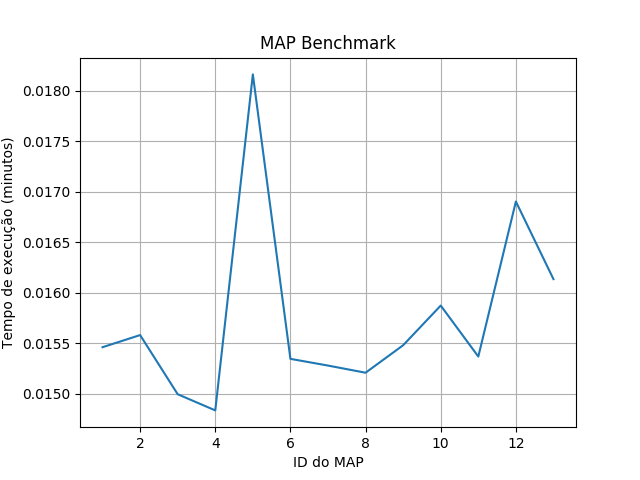
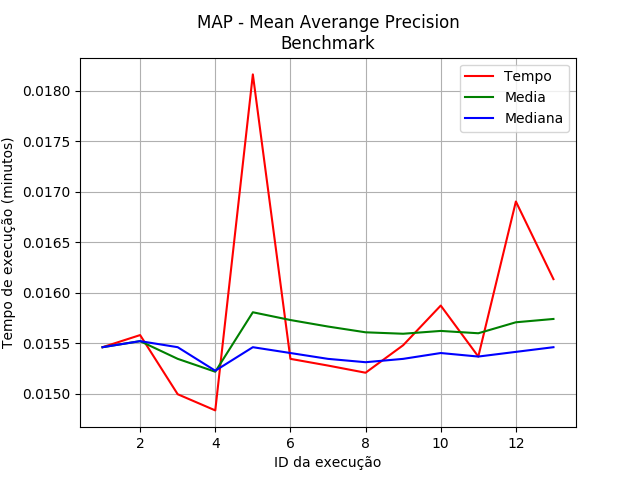
graficos de benchmark do map estavel

diff --git a/apps/evaluators/MAP/analyzer/benchmark.py b/apps/evaluators/MAP/analyzer/benchmark.py
@@ -12,59 +12,72 @@ if not os.path.exists(directory):
     os.makedirs(directory)
 
 def bench_gLine():
-    logger.info("[Start Bench Graph Line]")
+    logger.info("[Start Bench (MAP) Graph Line]")
     allBenchmarks = BenchMAP.objects.all()
-    benchmarkTimes = [((benchmark.finished_at - benchmark.started_at).total_seconds() / 60.0) for benchmark in allBenchmarks]
-    benchmarkMean = np.mean(benchmarkTimes)
-    benchmarkMedian = np.median(benchmarkTimes)
-    logger.debug("MAP Benchmark Time Mean: " + str(benchmarkMean))
-    logger.debug("MAP Benchmark Time Median: " + str(benchmarkMedian))
+    benchmarkTimes = [ ]
+    benchmarkMeanTimes = [ ]
+    benchmarkMedianTimes = [ ]
+    for benchmark in allBenchmarks:
+        benchmarkTimes.append((benchmark.finished_at - benchmark.started_at).total_seconds() / 60.0)
+        benchmarkMeanTimes.append(np.mean(benchmarkTimes))
+        benchmarkMedianTimes.append(np.median(benchmarkTimes))
+    logger.debug("MAP Benchmark -> Mean (minutes): " + str(benchmarkMeanTimes[-1]))
+    logger.debug("MAP Benchmark -> Median (minutes): " + str(benchmarkMedianTimes[-1]))
+    logger.debug("MAP Benchmark -> Run Number: " + str(len(benchmarkTimes)))
     plt.figure()
     plt.grid(True)
-    plt.title('MAP Benchmark')
-    plt.xlabel('ID do MAP')
+    plt.title('MAP - Mean Averange Precision\nBenchmark')
+    plt.xlabel('ID da execução')
     plt.ylabel('Tempo de execução (minutos)')
-    plt.text(-0.1, 1, r'Media: ' + str(float("{0:.2f}".format(benchmarkMean))))
-    plt.text(-0.1, .8, r'Mediana: ' + str(float("{0:.2f}".format(benchmarkMedian))))
-    plt.plot([benchmark.id for benchmark in allBenchmarks],[benchmark for benchmark in benchmarkTimes])
+    plt.plot([benchmark.id for benchmark in allBenchmarks],[benchmark for benchmark in benchmarkTimes],color='red',label='Tempo')
+    plt.plot([benchmark.id for benchmark in allBenchmarks],[benchmark for benchmark in benchmarkMeanTimes],color='green',label='Media')
+    plt.plot([benchmark.id for benchmark in allBenchmarks],[benchmark for benchmark in benchmarkMedianTimes],color='blue',label='Mediana')
+    plt.legend(loc='best')
     plt.savefig(str(directory) + 'value_gLine' + '-[id]-'+ str(allBenchmarks.last().id) + '.png')
-    logger.info("[Finish Bench Graph Line]")
-def bench_gScatter(at=5):
-    logger.info("[Start Bench Graph Scatter]")
+    logger.info("[Finish Bench (MAP) Graph Line]")
+def bench_gScatter():
+    logger.info("[Start Bench (MAP) Graph Scatter]")
     allBenchmarks = BenchMAP.objects.all()
-    benchmarkTimes = [((benchmark.finished_at - benchmark.started_at).total_seconds() / 60.0) for benchmark in allBenchmarks]
-    benchmarkMean = np.mean(benchmarkTimes)
-    benchmarkMedian = np.median(benchmarkTimes)
-    logger.debug("MAP Benchmark Time Mean: " + str(benchmarkMean))
-    logger.debug("MAP Benchmark Time Median: " + str(benchmarkMedian))
+    benchmarkTimes = [ ]
+    benchmarkMeanTimes = [ ]
+    benchmarkMedianTimes = [ ]
+    for benchmark in allBenchmarks:
+        benchmarkTimes.append((benchmark.finished_at - benchmark.started_at).total_seconds() / 60.0)
+        benchmarkMeanTimes.append(np.mean(benchmarkTimes))
+        benchmarkMedianTimes.append(np.median(benchmarkTimes))
+    logger.debug("MAP Benchmark -> Mean (minutes): " + str(benchmarkMeanTimes[-1]))
+    logger.debug("MAP Benchmark -> Median (minutes): " + str(benchmarkMedianTimes[-1]))
+    logger.debug("MAP Benchmark -> Run Number: " + str(len(benchmarkTimes)))
     plt.figure()
     plt.grid(True)
-    plt.title('MAP Benchmark')
+    plt.title('MAP - Mean Averange Precision\nBenchmark')
     plt.ylabel('Tempo de execução (minutos)')
     plt.xlabel('Tempo de execução (minutos)')
-    plt.text(-0.1, 1, r'Media: ' + str(float("{0:.2f}".format(benchmarkMean))))
-    plt.text(-0.1, .8, r'Mediana: ' + str(float("{0:.2f}".format(benchmarkMedian))))
-    plt.scatter(benchmarkTimes, benchmarkTimes)
+    plt.scatter(benchmarkTimes, benchmarkTimes, label='Media: ' + str(float("{0:.4f}".format(benchmarkMeanTimes[-1]))))
+    plt.legend(loc='upper left')
     plt.savefig(str(directory) + 'value_gScatter' + '-[id]-'+ str(allBenchmarks.last().id) + '.png')
-    logger.info("[Finish Bench Graph Scatter]")
-def bench_gBoxPlot(at=5):
-    logger.info("[Start Bench Graph BoxPlot]")
+    logger.info("[Finish Bench (MAP) Graph Scatter]")
+def bench_gBoxPlot():
+    logger.info("[Start Bench (MAP) Graph BoxPlot]")
     allBenchmarks = BenchMAP.objects.all()
     benchmarkTimes = [((benchmark.finished_at - benchmark.started_at).total_seconds() / 60.0) for benchmark in allBenchmarks]
     plt.figure()
-    plt.title('MAP Benchmark')
-    plt.boxplot(benchmarkTimes)
+    plt.title('MAP - Mean Averange Precision\nBenchmark')
+    plt.boxplot(benchmarkTimes, labels='T')
     plt.savefig(str(directory) + 'value_gBoxPlot' + '-[id]-'+ str(allBenchmarks.last().id) + '.png')
-    logger.info("[Finish Bench Graph BoxPlot]")
-def bench_gBar(at=5):
-    logger.info("[Start Bench Graph Bar]")
+    logger.info("[Finish Bench (MAP) Graph BoxPlot]")
+def bench_gBar():
+    logger.info("[Start Bench (MAP) Graph Bar]")
     allBenchmarks = BenchMAP.objects.all()
-    benchmarkTimes = [float("{0:.1f}".format((benchmark.finished_at - benchmark.started_at).total_seconds())) for benchmark in allBenchmarks]
+    benchmarkTimes = [float("{0:.3f}".format((benchmark.finished_at - benchmark.started_at).total_seconds() / 60.0)) for benchmark in allBenchmarks]
     benchmarkCountList = Counter(benchmarkTimes)
+    mode = benchmarkCountList.most_common(1)[0][0]
+    logger.debug('MAP Benchmark -> Mode: ' + str(mode))
     plt.figure()
-    plt.title('MAP Benchmark')
+    plt.title('MAP - Mean Averange Precision\nBenchmark')
     plt.ylabel('Tempo execução (minutos)')
     plt.xlabel('Quantidade')
-    plt.bar(benchmarkCountList.values(),benchmarkCountList.keys())
+    plt.bar(benchmarkCountList.values(),benchmarkCountList.keys(), label='Moda: ' + str(float("{0:.4f}".format(mode))))
+    plt.legend(loc='best')
     plt.savefig(str(directory) + 'value_gBar' + '-[id]-'+ str(allBenchmarks.last().id) + '.png')
-    logger.info("[Finish Bench Graph Bar]")
+    logger.info("[Finish Bench (MAP) Graph Bar]")
